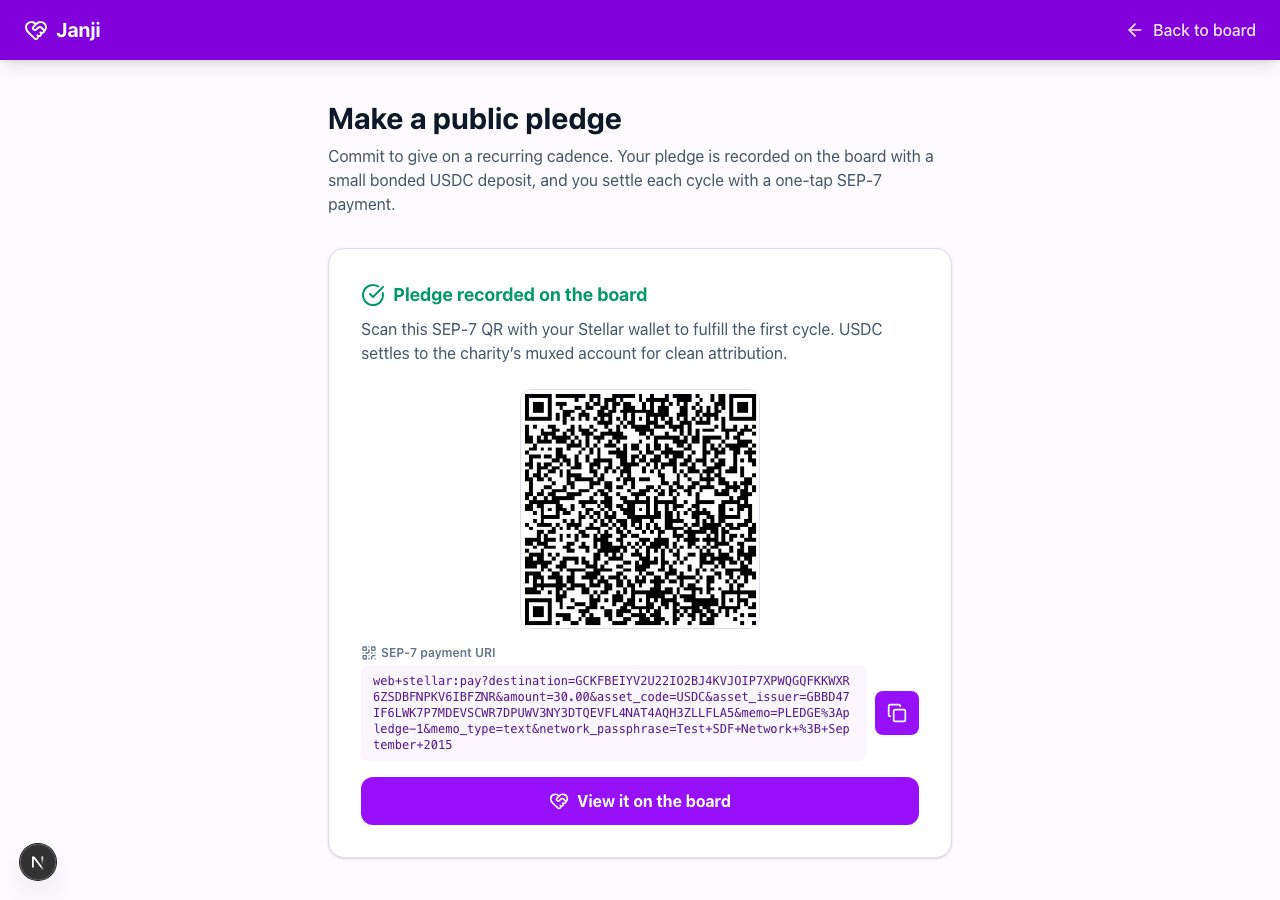
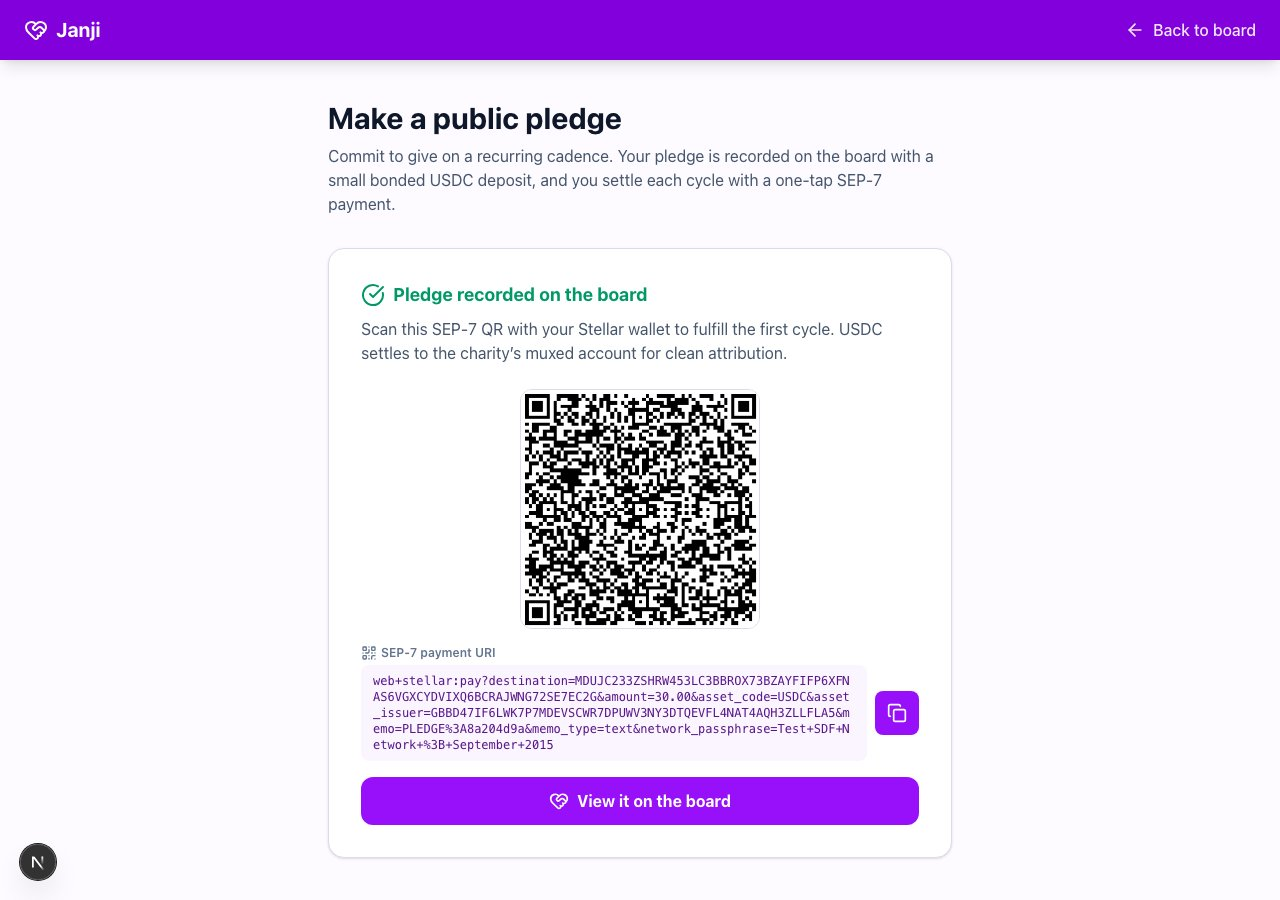
fix: harden demo pledge and payment flows

Changed region(s): [[0.4062, 0.4356, 0.5938, 0.7156], [0.2812, 0.7467, 0.6562, 0.84]]

diff --git a/app/api/horizon-events/route.ts b/app/api/horizon-events/route.ts
@@ -1,9 +1,18 @@
 import { desc, eq } from 'drizzle-orm';
 import type { NextRequest } from 'next/server';
+import { z } from 'zod';
 import { stellar } from '@/server/config/stellar';
 import { db } from '@/server/db/client';
 import { horizonEvents } from '@/server/db/schema';
 import { demoEvents, demoId, demoMode } from '@/server/demo-store';
+
+const eventSchema = z.object({
+  charityId: z.string().uuid(),
+  pledgeId: z.string().uuid().nullable().optional(),
+  eventType: z.string().min(1).max(80),
+  amount: z.string().regex(/^\d+(\.\d{1,7})?$/).default('0'),
+  txHash: z.string().max(128).default(''),
+});
 
 // GET /api/horizon-events?charityId=xxx — returns recent stored events
 export async function GET(req: NextRequest) {
@@ -96,9 +105,9 @@ export async function GET(req: NextRequest) {
 
 export async function POST(req: NextRequest) {
   try {
+    const data = eventSchema.parse(await req.json());
     if (demoMode()) {
-      const body = await req.json();
-      const event = { ...body, id: demoId('event'), createdAt: new Date() };
+      const event = { ...data, pledgeId: data.pledgeId ?? null, id: demoId('event'), createdAt: new Date() };
       demoEvents.unshift(event);
       return Response.json({ ok: true, data: event }, { status: 201 });
     }
@@ -108,8 +117,7 @@ export async function POST(req: NextRequest) {
         { status: 409 },
       );
     }
-    const body = await req.json();
-    const rows = await db.insert(horizonEvents).values(body).returning();
+    const rows = await db.insert(horizonEvents).values(data).returning();
     return Response.json({ ok: true, data: rows[0] }, { status: 201 });
   } catch (err) {
     return Response.json({ ok: false, error: String(err) }, { status: 400 });

diff --git a/src/server/service/pledge.service.ts b/src/server/service/pledge.service.ts
@@ -4,7 +4,7 @@ import { db } from '@/server/db/client';
 import { charities, fulfillments, type NewPledge, pledges } from '@/server/db/schema';
 import { AppError } from '@/server/lib/http';
 import { buildSep7PayUri, createMuxedAddress } from '@/server/lib/muxed';
-import { demoCharities, demoId, demoMode, demoPledges } from '@/server/demo-store';
+import { demoCharities, demoMode, demoPledges, demoUuid } from '@/server/demo-store';
 
 export async function listPledges(charityId?: string) {
   if (demoMode()) {
@@ -33,8 +33,11 @@ export async function getPledge(id: string) {
 
 export async function createPledge(data: NewPledge) {
   if (demoMode()) {
+    if (!demoCharities.some((charity) => charity.id === data.charityId)) {
+      throw new AppError('NOT_FOUND', 'Charity not found', 404);
+    }
     const pledge = {
-      id: demoId('pledge'),
+      id: demoUuid(),
       donorName: data.donorName,
       charityId: data.charityId,
       monthlyAmountUsdc: data.monthlyAmountUsdc,
@@ -106,6 +109,7 @@ export async function getPledgeWithSep7(id: string) {
       assetIssuer: stellar.usdcIssuer,
       memo: `PLEDGE:${pledge.id.slice(0, 8)}`,
       memoType: 'text',
+      networkPassphrase: stellar.passphrase,
     });
     return { pledge, charity, muxedAddress, sep7Uri };
   }
@@ -131,6 +135,7 @@ export async function getPledgeWithSep7(id: string) {
     assetIssuer: stellar.usdcIssuer,
     memo: `PLEDGE:${pledge.id.slice(0, 8)}`,
     memoType: 'text',
+    networkPassphrase: stellar.passphrase,
   });
 
   return { pledge, charity, muxedAddress, sep7Uri };

diff --git a/src/server/service/fulfillment.service.ts b/src/server/service/fulfillment.service.ts
@@ -2,7 +2,7 @@ import { desc, eq } from 'drizzle-orm';
 import { db } from '@/server/db/client';
 import { fulfillments, type NewFulfillment, pledges } from '@/server/db/schema';
 import { AppError } from '@/server/lib/http';
-import { demoFulfillments, demoId, demoMode, demoPledges, demoTxHash } from '@/server/demo-store';
+import { demoFulfillments, demoMode, demoPledges, demoTxHash, demoUuid } from '@/server/demo-store';
 
 export async function listFulfillments(pledgeId?: string) {
   if (demoMode()) return pledgeId ? demoFulfillments.filter((item) => item.pledgeId === pledgeId) : demoFulfillments;
@@ -17,11 +17,15 @@ export async function listFulfillments(pledgeId?: string) {
 }
 
 export async function recordFulfillment(data: NewFulfillment) {
+  if (!/^\d+(\.\d{1,7})?$/.test(data.amountUsdc) || Number.parseFloat(data.amountUsdc) <= 0) {
+    throw new AppError('INVALID_INPUT', 'Fulfillment amount must be greater than zero', 400);
+  }
   if (demoMode()) {
     const pledge = demoPledges.find((item) => item.id === data.pledgeId);
     if (!pledge) throw new AppError('NOT_FOUND', 'Pledge not found', 404);
+    if (pledge.status !== 'active') throw new AppError('CONFLICT', 'Only active pledges can be fulfilled', 409);
     const fulfillment = {
-      id: demoId('fulfillment'),
+      id: demoUuid(),
       pledgeId: data.pledgeId,
       amountUsdc: data.amountUsdc,
       txHash: data.txHash || demoTxHash(),

diff --git a/src/server/lib/muxed.ts b/src/server/lib/muxed.ts
@@ -35,8 +35,17 @@ export function buildSep7PayUri(params: {
   assetIssuer: string;
   memo: string;
   memoType?: string;
+  networkPassphrase?: string;
 }): string {
-  const { destination, amount, assetCode, assetIssuer, memo, memoType = 'text' } = params;
+  const {
+    destination,
+    amount,
+    assetCode,
+    assetIssuer,
+    memo,
+    memoType = 'text',
+    networkPassphrase = 'Test SDF Network ; September 2015',
+  } = params;
   const base = 'web+stellar:pay';
   const q = new URLSearchParams({
     destination,
@@ -45,7 +54,7 @@ export function buildSep7PayUri(params: {
     asset_issuer: assetIssuer,
     memo,
     memo_type: memoType,
-    network_passphrase: 'Test SDF Network ; September 2015',
+    network_passphrase: networkPassphrase,
   });
   return `${base}?${q.toString()}`;
 }

diff --git a/src/server/service/charity.service.ts b/src/server/service/charity.service.ts
@@ -2,7 +2,7 @@ import { desc, eq } from 'drizzle-orm';
 import { db } from '@/server/db/client';
 import { charities, type NewCharity } from '@/server/db/schema';
 import { AppError } from '@/server/lib/http';
-import { demoCharities, demoId, demoMode } from '@/server/demo-store';
+import { demoCharities, demoMode, demoUuid } from '@/server/demo-store';
 
 export async function listCharities() {
   if (demoMode()) return demoCharities;
@@ -23,7 +23,7 @@ export async function getCharity(id: string) {
 export async function createCharity(data: NewCharity) {
   if (demoMode()) {
     const charity = {
-      id: demoId('charity'),
+      id: demoUuid(),
       name: data.name,
       description: data.description ?? '',
       stellarAddress: data.stellarAddress,

diff --git a/src/server/demo-store.ts b/src/server/demo-store.ts
@@ -42,7 +42,7 @@ export type DemoEvent = {
   createdAt: Date;
 };
 
-const charityAddress = 'GCKFBEIYV2U22IO2BJ4KVJOIP7XPWQGQFKKWXR6ZSDBFNPKV6IBFZNR';
+const charityAddress = 'GDUJC233ZSHRW453LC3BBROX73BZAYFIFP6XFNAS6VGXCYDVIXQ6BIR2';
 const charityId = '55555555-5555-4555-8555-555555555555';
 
 export const demoCharities: DemoCharity[] = [
@@ -84,6 +84,10 @@ export function demoMode() {
 
 export function demoId(prefix: string) {
   return `${prefix}-${Date.now()}-${Math.random().toString(16).slice(2, 8)}`;
+}
+
+export function demoUuid() {
+  return crypto.randomUUID();
 }
 
 export function demoTxHash() {

diff --git a/src/server/config/env.ts b/src/server/config/env.ts
@@ -23,6 +23,9 @@ const envSchema = z.object({
   USDC_ASSET_ISSUER_TESTNET: z
     .string()
     .default('GBBD47IF6LWK7P7MDEVSCWR7DPUWV3NY3DTQEVFL4NAT4AQH3ZLLFLA5'),
+  USDC_ASSET_ISSUER_PUBLIC: z
+    .string()
+    .default('GA5ZSEJYB37JRC5AVCIA5MOP4RHTM335X2KGX3IHOJAPP5RE34K4KZVN'),
 
   DEMO_MODE: z.coerce.boolean().default(false),
 });

diff --git a/src/server/config/stellar.ts b/src/server/config/stellar.ts
@@ -24,5 +24,5 @@ export const stellar = {
   network: env.STELLAR_NETWORK,
   server: new Horizon.Server(cfg.horizonUrl),
   usdcAssetCode: env.USDC_ASSET_CODE,
-  usdcIssuer: env.USDC_ASSET_ISSUER_TESTNET,
+  usdcIssuer: env.STELLAR_NETWORK === 'public' ? env.USDC_ASSET_ISSUER_PUBLIC : env.USDC_ASSET_ISSUER_TESTNET,
 } as const;
